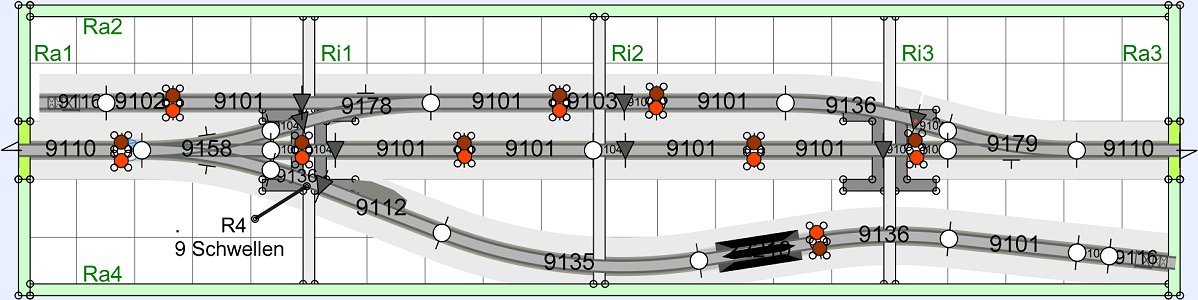
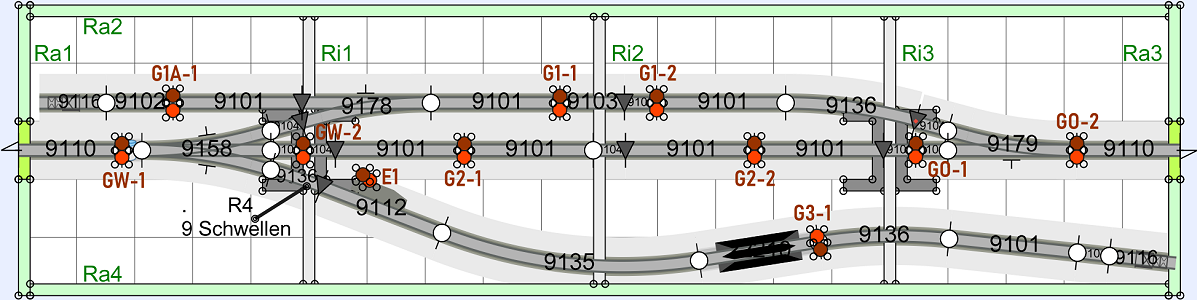
Update Module M12

diff --git a/use/module12/LIESMICH.md b/use/module12/LIESMICH.md
@@ -4,7 +4,7 @@ Letzte &Auml;nderung: 12.1.2025 <a name="up"></a><br>
 <a href="README.md">==> English version</a>&nbsp; &nbsp; &nbsp; 
 </td></tr></table>   
 
-[Direkter Sprung zur Inhalts&uuml;bersicht](#x05)   
+[Hier geht es direkt zur Inhalts&uuml;bersicht](#x05)   
 
 # Übersicht
 Diese Anleitung beschreibt den Bau eines 100 x 25 cm² großen Gleis-Moduls M12 „Ausweichstelle und Abstellgleis“. Das Modul soll folgende Eigenschaften besitzen:   
@@ -26,6 +26,7 @@ Diese Anleitung beschreibt den Bau eines 100 x 25 cm² großen Gleis-Moduls M12 
 * [1. Vorbereitung - Einkauf](#x10)   
 * [2. Bau des Modul-Rahmens](#x20)   
 * [3. Aufbau des Gleisplans](#x30)   
+* [4. Elektrische Verdrahtung des Moduls](#x40)   
 
 [Zum Seitenanfang](#up)   
 <a name="x10"></a>   
@@ -205,6 +206,8 @@ Der Rahmenteil „Nord“ enthält lediglich dreimal zwei Bohrungen mit 2 mm Dur
 ![Modul_Nord_980mm](./images/300_Nord_980mm.png "Modul_Nord_980mm")   
 _Bild 6: Seitenteil Nord Ra2_   
 
+<a name="x24"></a>   
+
 ## 2.4 Rahmenteil Ra4 (Süd)
 Der Rahmenteil Süd ist am aufwändigsten zu fertigen, da er das Display, einen Taster und die Bohrungen für alle Steuerblöcke und für alle Querverstrebungen enthält. Das folgende Bild gibt einen Überblick über die erforderlichen Bohrungen.   
 
@@ -273,8 +276,10 @@ _Bild 16: Zusammengeschraubter Rahmen, Ansicht von unten_
 
 ## 3.1 Stellprobe   
 Der Probeaufbau erfolgt auf der 5 mm (bzw. 4 mm) Sperrholzplatte. Dazu wird der Gleisplan im Maßstab 1:1 auf diese gezeichnet. Das kann entweder durch Ausdruck des Gleisplans im Maßstab 1:1 und übertragen auf das Sperrholz erfolgen (zB mit Kohlepapier), oder durch Übertragen der Koordinaten auf das Sperrholz und Zeichnen des Gleisplans.   
-Danach werden die Gleise entsprechend der Stückliste isoliert und zusammengesteckt und eine erste Probefahrt durchgeführt.   
+Entsprechend dem Gleisplanentwurf müssen die Trennstellen in jeweils beiden Schienensträngen hergestellt werden. Dazu werden Fleischmann 9403 Isolier-Schienenverbinder verwendet. Die bisherigen Gleisverbinder werden entfernt und durch die Isolier-Schienenverbinder ersetzt.   
+Danach werden die Gleise entsprechend dem Gleisbild zusammengesteckt.   
 Beim Probeaufbau sollten auch alle bahnspezifischen Bauwerke (wie Bahnhof, Bahnsteige, Verladerampe) aufgestellt werden, damit man weiß, wie der Bahnkörper (die 5 mm bzw. 4 mm Platte) zugeschnitten werden muss.   
+Schließlich wird mit dem längsten Waggon händisch eine Probefahrt durchgeführt und kontrolliert, ob alle Radien, Übergänge etc. passen und keine Gebäude im Wege stehen.   
 
 ## 3.2 Zuschneiden und Aufkleben des Bahndamms auf die Grundplatte   
 War die Stellprobe erfolgreich, folgen Überlegungen zu den einzelnen Geländehöhen.   
@@ -291,47 +296,130 @@ Sollen die Weichenantriebe als Unterflurantriebe verbaut werden, müssen noch Au
 ![Maße der Aussparung für Unterflurantrieb](./images/300_turnout_cutout_right.png "Maße der Aussparung für Unterflurantrieb")   
 _Bild 17: Maße der Aussparung für einen Unterflurantrieb._   
 
-Die folgenden beiden Bilder zeigen die verschiedenen Ebenen des Geländes und die Aussparungen für die Weichen. Links vorne und rechts hinten ist das Niveau E0, in der Mitte und hinten ist 8 mm hohes Sperrholz (E8).   
+Die folgenden beiden Bilder zeigen die verschiedenen Ebenen des Geländes und die Aussparungen für die Weichen. Links vorne und rechts hinten ist das Niveau E0, in der Mitte und hinten (im Bild oben) ist 8 mm hohes Sperrholz (E8).   
 ![Bahndamm2](./images/300_Bahndamm2.png "Bahndamm2")   
 ![Bahndamm](./images/300_Bahndamm.png "Bahndamm")   
 _Bild 18: Verschiedene Modul-Ebenen_
 
 ## 3.3 Bettungskörper (Schotterbett)
 Im nächsten Schritt wird das 3 mm hohe Schaumstoff-Gleisbett (Fa. Noch Nr. 95962 oder Kork) aufgeklebt. Dies erfolgt nicht nur an Stellen, wo später ein Gleis verläuft, sondern auch an Stellen, die das gleiche Niveau haben sollen, zB zwischen den Gleisen oder dort, wo später der Antrieb für den Entkuppler hinkommt.   
-Danach bohrt man mit einem 4 mm Bohrer die Löcher für die Fahrstromzuführung. Wenn man eine 1:1 Vorlage des Gleisbildes ausgedruckt hat, so kann diese als Bohrschablone dienen.   
+Danach bohrt man mit einem 4 mm Bohrer die Löcher für die Fahrstromzuführung. Wenn man eine 1:1 Vorlage des Gleisbildes ausgedruckt hat, so kann man diese als Bohrschablone verwenden.   
 Das folgende Bild zeigt den Modul mit Schaumstoff-Bett, Ausnehmungen für die Weichenantriebe und die Bohrungen für die Fahrstromzuführung.   
 
 ![Schotterbett](./images/300_Schotterbett1.png "Schotterbett")   
-_Bild 19: Rohfassung des Schotterbettes_   
+_Bild 19: Grundplatte mit Bahndamm, Gleisbett (schwarz), Bohrungen für Fahrstrom und Weichenausschnitten_   
 
 ## 3.4 Vorbereitung der Verdrahtung
-__Montage der Schaltblöcke__   
-Bevor die Schienen verlegt werden, sollte die Verdrahtung vorbereitet werden. Für ein leichteres Arbeiten entfernt man die Grundplatte vom Rahmen und montiert die Schaltblöcke. Dazu steckt man einen Schaltblock in die Schaltblock-Halterung und schraubt ihn mit vier M2 x 20 mm Schrauben fest (Schrauben nicht zu fest anziehen!).    
+### Montage der Schaltblöcke   
+Bevor die Schienen verlegt werden, sollte die Verdrahtung vorbereitet werden (damit die Gleise nicht beschädigt werden). Für ein leichteres Arbeiten entfernt man zuerst die Grundplatte vom Rahmen und montiert die Schaltblöcke. Dazu steckt man einen Schaltblock in die Schaltblock-Halterung und schraubt ihn mit vier M2 x 20 mm Schrauben fest (Schrauben nicht zu fest anziehen!).    
 ![Schaltblockmontage](./images/300_Schaltblockmontage.png "Schaltblockmontage")   
 _Bild 20: Anschrauben der Schaltblöcke_   
 
 Weiters montiert man auf die erste und dritte Querstrebe die Halterung für die Sub-D-Stecker. Sollte dabei eine Fahrstromzuführung genau unter einer Halterung liegen, so muss man die Stromzuführung nochmals bohren....   
 
-__Montage der Klemmen__   
-Um die Verkabelung des Moduls übersichtlich zu gestalten, werden 2x2 Längslinien (Abstand 1,5 cm)gezeichnet, die genau durch die Durchführungen der Querverbinder führen. In diesem Bereich werden die Kabel geführt.   
-Allgemein gilt: I²C-Komponenten werden in der Nähe der Schaltblöcke montiert, Fahrstromkomponenten auf der gegenüberliegenden Längsseite und Weichenanschlüsse in der Nähe der Weichen.   
+### Montage der Anzeige und des Mikrocontrollers   
+Die OLED-Anzeige und den Mikrocontroller, wie bei [Rahmenteil Ra4 (Süd)](#x24) beschrieben, in den Rahmen einsetzen.   
+
+## Montage der I²C-I/O-Expanderplatinen
+1. Segment 2: Montage von zwei I²C-PCF8574-I/O-Expanderplatinen und den Hilfsplatinen `CON_i2c_20mm`. Einstellen der Adressen 0x20 und 0x21 mit Hilfe der Jumper.   
+2. Segment 3: Montage von zwei I²C-PCF8574-I/O-Expanderplatinen und den Hilfsplatinen `CON_i2c_20mm`. Einstellen der Adressen 0x22 und 0x23 mit Hilfe der Jumper.   
+
+### Montage der Klemmen   
+Um die Verkabelung des Moduls übersichtlich zu gestalten, werden 2x2 Längslinien (Abstand vom Rand 4 cm und 5,5 cm) gezeichnet, die genau durch die Durchführungen der Querverbinder führen. In diesem Bereich werden die Kabel geführt. Nun setzt man die Grundplatte wieder in den Rahmen ein.   
+Für die Platzierung der Klemmen gilt allgemein:   
+* I²C-Komponenten (zB die Prints mit 10-poligem Wannenstecker) werden in der Nähe der Schaltblöcke montiert (im folgenden Bild oben zu sehen),
+* Fahrstromkomponenten (zB Prints mit 6-poligem Wannenstecker) auf der den Schaltblöcken gegenüberliegenden Längsseite ("hinten", im Bild unten) und 
+* Weichenanschlüsse in der Nähe der Weichen.   
+
 Das folgende Bild zeigt die montierten Klemmen.   
 
 ![M12_Verdrahtung_1](./images/300_M12_Verdrahtung1.png "M12_Verdrahtung_1")   
 _Bild 21: Klemmen für die Verdrahtung_   
 
-_Im Detail_:    
-1. Alle Prints werden mit M2 x 10 mm Schrauben, Lüsterklemmen mit M 2,6 x 12 mm Schrauben angeschraubt.   
-2. Die Gleise der Ein- und Ausfahrt eines Moduls werden immer direkt mit dem Fahrstrom verbunden. Mit dem Stromverteiler-Print `CON_2pol_141_V1` stehen zusätzliche Klemmen für die Fahrstromverteilung zur Verfügung (Grüner Balken unten im 2. Segment von links)   
-3. Die Prints 2x `CON_1xIO_V1` und 1x `CON_2xIO_V1` dienen dem Schalten des Fahrstroms (gemeinsam mit den Schaltblöcken `2IO`) (unten im Bild 21).   
-4. Je vier Prints `CON_10pol_PIN_V2` im Segment 2 und 3 stellen die Ein- und Ausgangspins der 10-poligen Schaltblock-Ausgänge für die I²C-Verdrahtung zur Verfügung.   
-5. Im Segment 2 und 3 sind je zwei PCF 8574-I/O-Prints montiert (einer für die Ausgangs- und einer für die Eingangssignale).   
-6. Der Anschluss der Weichen und des Entkupplers erfolgt an Prints 3x `CON_6pol_3_V1` bzw. 1x `CON_6pol_6_V1` (für Dreiwegweiche).   
+_Montage der Klemmen etc. im Detail_:    
+1. Beschriften der Bohrungen für die Fahrstromzuführung:   
+   Segment 1: GW-1, GW-2,G1A-1   
+   Segment 2: E1, G2-1, G1-1   
+   Segment 3: G1-2, G2-2, G3-1   
+   Segment 4: GO-1, GO-2   
+2. Alle Prints werden mit M2 x 10 mm Schrauben, Lüsterklemmen mit M2,6 x 12 mm Schrauben angeschraubt.   
+3. Die Gleise der Ein- und Ausfahrt eines Moduls werden immer direkt mit dem Fahrstrom verbunden. Mit dem Stromverteiler-Print `CON_2pol_141_V1` stehen zusätzliche Klemmen für die Fahrstromverteilung zur Verfügung (Grüner Balken unten im 2. Segment von links)   
+4. Die Prints 2x `CON_1xIO_V1` und 1x `CON_2xIO_V1` dienen dem Schalten des Fahrstroms (gemeinsam mit den Schaltblöcken `2IO`) (unten im Bild 21).   
+5. Je vier Prints `CON_10pol_PIN_V2` im Segment 2 und 3 stellen die Ein- und Ausgangspins der 10-poligen Schaltblock-Ausgänge für die I²C-Verdrahtung zur Verfügung.   
+6. Im Segment 2 und 3 sind je zwei PCF 8574-I/O-Prints montiert (einer für die Ausgangs- und einer für die Eingangssignale).   
+7. Der Anschluss der Weichen und des Entkupplers erfolgt an Prints 3x `CON_6pol_3_V1` bzw. 1x `CON_6pol_6_V1` (für Dreiwegweiche).   
+
+## 3.5 Gleisbau
+### Anbringen der Stromversorgung am Gleis   
+Zur Stromversorgung kann man Fleischmann 22217 Anschlußkabel 2pol. Spur N verwenden oder man lötet selbst Drähte an die Gleisverbinder. Dies geht für Fleischmann-Schotterbett-Gleise sehr gut, während die Verbinder von Gleisen ohne Schotterbett praktisch nicht lötbar sind.   
+Als Anschlussdraht verwendet man einen ca. 30 cm langen braunen Volldraht mit 0,32 mm² (22awg) für die nördliche Schiene und einen roten Draht für die südliche Schiene. Der Draht wird beidseitig ca. 6 mm abisoliert und für den Gleisverbinder-Anschluss hakenförmig gebogen, mit einer kleinen Zange etwas flachgedrückt und verzinnt.   
+Dazu fixiert man am besten das Gleis mit einem Klebestreifen, schneidet mit einem Stanley-Messer die kleine Verbindung über dem Gleisverbinder heraus (damit man leichter löten kann ;) ), und verzinnt den Gleisverbinder. Im Bild unten sieht man rechts unten die kleine Plastikverbindung über dem Gleisverbinder, der rechts oben entfernt ist.   
+
+![Loeten_Gleisanschluss1](./images/300_Loeten_Gleisanschluss1.png "Loeten_Gleisanschluss1")   
+_Bild 22: Vorbereitung des Anlötens einer Stromzuführung._   
+
+### Gleise aufkleben   
+#### Vorbereitung der Weichen   
+Um den Antrieb als Unterflurantrieb zu verwenden, muss man den Schalthebel der Weiche herausziehen und um 180° gedreht wieder einstecken. Danach kann der Antrieb mit der Oberseite nach unten aufgesteckt werden.   
+#### Vorbereitung Stromzuführung   
+Verwendet man die Stromzuführungskabel Fleischmann 22217, so muss man immer oberhalb der Kontaktstelle eine Bohrung setzen (4 mm), um die Kabel nach unten durchführen zu können.   
+Bei selbst gelöteten Stromzuführungen muss jeweils direkt unter jedem Gleisverbinder eine Bohrung gesetzt werden.   
+#### Vorbereitung Entkupplungsgleis   
+Für den Antrieb des Entkupplungsgleises 9112 (oder 22212) muss ebenfalls eine 4 mm-Bohrung gesetzt werden.   
+#### Gleise aufkleben   
+Alle Kabel in die Bohrungen einfädeln und nach unten ziehen, bis die Gleise etwa 5 bis 10 cm Abstand zur zukünftigen Position haben. Die Grundplatte etwas schräg stellen, damit die Kabel nicht geknickt werden.   
+Alle Bereiche markieren, auf die kein Leim aufgetragen werden darf (oder mit Klebeband abdecken):   
+* Weichenantrieb   
+* Entkupplungsgleis   
+* Ausgleichsgleise am linken und rechten Rand (Ost und West)   
+
+Das Gleisbett mit Leim versehen. Dabei ist zu beachten, dass im Bereich der Weiche und des Entkupplungsgleises möglichst wenig Leim (oder gar kein Leim) aufgebracht wird, damit kein Leim in die Antriebe gelangt und diese verklebt!   
+Da die Ausgleichsgleise zur Anpassung von Abständen an den Modulgrenzen dienen, darf in diesem Bereich ebenfalls KEIN Leim aufgebracht werden!   
+Danach die Gleise fertig zusammenstecken und vorsichtig an den Kabeln ziehen, bis die Gleise auf dem Leim liegen.   
+Da die beiden Ausgleichsgleise am linken und rechten Rand im Betrieb mechanisch in Längsrichtung beansprucht werden, sollten sie mit je einem Gleisnagel zusätzlich fixiert werden. Dabei muss der Gleisnagel an der vom Rand entfernten Gleisseite eingeschlagen werden.   
+
+Das Modul mit eingesetzter Grundplatte und Gleisen sieht folgendermaßen aus:   
+![Montiertes Gleis](./images/300_Gleis_montiert1.png "Montiertes Gleis")   
+_Bild 23: Rahmen mit Grundplatte und Gleisen._   
+
+[Zum Seitenanfang](#up)   
+<a name="x40"></a>   
+
+# 4. Elektrische Verdrahtung des Moduls   
+
+## 4.1 Verdrahtung der Stromversorgung und des Fahrstroms
+1. Verbinden des Anschlusses "POWER" der Versorgungsplatine `RW_5V_SUB25_10` mit den acht Schaltblöcken mit einem 6-poligen, ca. einen Meter langen Flachbandkabel und 9 montierten Pfostenverbindern.   
+2. Verbinden aller Fahrstromanschlüsse mit den entsprechenden Klemmen.   
+3. Verbinden des Fahrstroms (NN, SS) von der Versorgungsplatine `RW_5V_SUB25_10` zu den Platinen `CON_2pol_141`, `CON_1xIO`, `CON_2xIO` sowie den Lüsterklemmen GW (Gleis West) und GO (Gleis Ost).   
+4. Verbinden der Anschlüsse der beiden Weichenantriebe der Dreiwegweiche mit der Platine `CON_6pol_6` (linke Weiche = Antrieb näher zu den Schaltblöcken = Pin 1 und 3, Masse an Pin 2).   
+5. Verbinden der Anschlüsse der beiden Zweiweg-Weichenantriebe mit den Platinen `CON_6pol_3` (Masse = schwarzes Kabel an Pin 2).   
+6. Verbinden der Anschlüsse des Entkupplers mit der Platine `CON_6pol_3`.   
+
+![Verdrahtung 1](./images/300_Verdrahtung1.png "Verdrahtung 1")   
+_Bild 24: Verdrahtung Stromversorgung_   
+
+### Erster Test der Verdrahtung   
+1. Anstecken eines 25-poligen Steckers mit Fahrstrom- und Wechselstromversorgung.   
+2. Test der Ansteuerung der Dreiwegweiche Links-Mitte und Mitte-Rechts. Falls ein Fehler auftritt: Anschlüsse 1 und 3 vertauschen.   
+2. Test der Ansteuerung der Zweiwegweichen. Stimmt die Anzeige-LED für Gerade und Abzweig? Schaltet die Weiche entsprechend dem Taster auf "Gerade" oder "Abzweig"? Falls nicht: Anschlüsse 1 und 3 vertauschen.   
+3. Arbeitet der Entkuppler?   
+4. Stimmen alle LED-Anzeigen mit der entsprechenden Hardware überein?   
+5. Fahrstrom Gleis 1, 2, 3 und 1A mit den grünen Tastern einschalten, Probefahrt mit einer Lokomotive über alle Gleise.   
+
+## 4.2 Vorbereitung Mikrocontroller
+1. Verbinden des Anschlusses "DCC" der Versorgungsplatine `RW_5V_SUB25_10` mit dem Mikrocontroller über ein ca. 30 cm langes, 6-poliges Kabel.   
+2. Verbinden des Mikrocontrollers mit den I²C-PCF8574-I/O-Expanderplatinen mit 20 cm langen, 4-poligen Kabeln mit male-female-Steckern.   
+3. Programmierung des Mikrocontrollers mit der Software `rcc_module12_V1`.   
+
+## 4.3 Verdrahtung I²C-Bus
+1. Verbinden der 10-poligen Stecker der Schaltblöcke mit den 10-poligen Steckern der Platinen `CON_10pol_PIN`.   
+2. Segment 2: Verbinden der Stiftleisten mit 10 cm langen Leitungen female-female:    
+* 
 
 
 # ...ToDo... ================================   
 
-## 3.4 Gleisbauarbeiten
+
 
 
 
